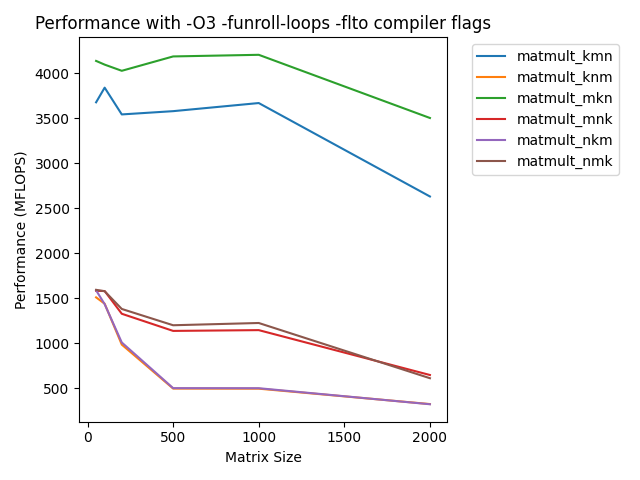
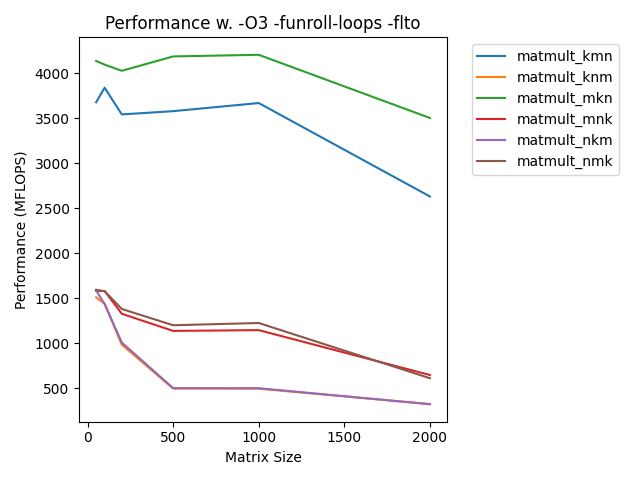
all

Changed region(s): [[0.0312, 0.0312, 0.7812, 0.0625]]

diff --git a/assignment1/plots.py b/assignment1/plots.py
@@ -67,7 +67,7 @@ for method in np.unique(methods):
 plt.xlabel('Matrix Size')
 plt.ylabel('Performance (MFLOPS)')
 plt.legend(bbox_to_anchor=(1.05, 1), loc=2)
-plt.title('Performance with -O3 compiler flag')
+plt.title('Performance w. -O3')
 plt.tight_layout()
 plt.savefig('assignment1/performance_basic_O3.png')
 
@@ -94,7 +94,7 @@ for method in np.unique(methods):
 plt.xlabel('Matrix Size')
 plt.ylabel('Performance (MFLOPS)')
 plt.legend(bbox_to_anchor=(1.05, 1), loc=2)
-plt.title('Performance with -O3 -funroll-loops compiler flags')
+plt.title('Performance w. -O3 -funroll-loops')
 plt.tight_layout()
 plt.savefig('assignment1/performance_basic_O3_funroll.png')
 
@@ -121,7 +121,7 @@ for method in np.unique(methods):
 plt.xlabel('Matrix Size')
 plt.ylabel('Performance (MFLOPS)')
 plt.legend(bbox_to_anchor=(1.05, 1), loc=2)
-plt.title('Performance with -O3 -funroll-loops -flto compiler flags')
+plt.title('Performance w. -O3 -funroll-loops -flto')
 plt.tight_layout()
 plt.savefig('assignment1/performance_basic_O3_funroll_flto.png')
 
@@ -148,7 +148,7 @@ for method in np.unique(methods):
 plt.xlabel('Matrix Size')
 plt.ylabel('Performance (MFLOPS)')
 plt.legend(bbox_to_anchor=(1.05, 1), loc=2)
-plt.title('Performance with -O3 -funroll-loops -march=native compiler flags')
+plt.title('Performance w. -O3 -funroll-loops -march=native')
 plt.tight_layout()
 plt.savefig('assignment1/performance_basic_O3_funroll_marchnative.png')
 
@@ -175,7 +175,7 @@ for method in np.unique(methods):
 plt.xlabel('Matrix Size')
 plt.ylabel('Performance (MFLOPS)')
 plt.legend(bbox_to_anchor=(1.05, 1), loc=2)
-plt.title('Performance with -O3 -funroll-loops -march=native compiler flags')
+plt.title('Performance w. -O3 -funroll-loops -march=native -mfpmath=sse')
 plt.tight_layout()
 plt.savefig('assignment1/performance_basic_O3_funroll_marchnative_sse.png')
 
@@ -201,7 +201,7 @@ for method in np.unique(methods):
 plt.xlabel('Matrix Size')
 plt.ylabel('Performance (MFLOPS)')
 plt.legend(bbox_to_anchor=(1.05, 1), loc=2)
-plt.title('Performance with -O3 -funroll -flto compiler flags')
+plt.title('Performance all methods')
 plt.tight_layout()
 plt.savefig('assignment1/performance_basic_wcompiler.png')
 
